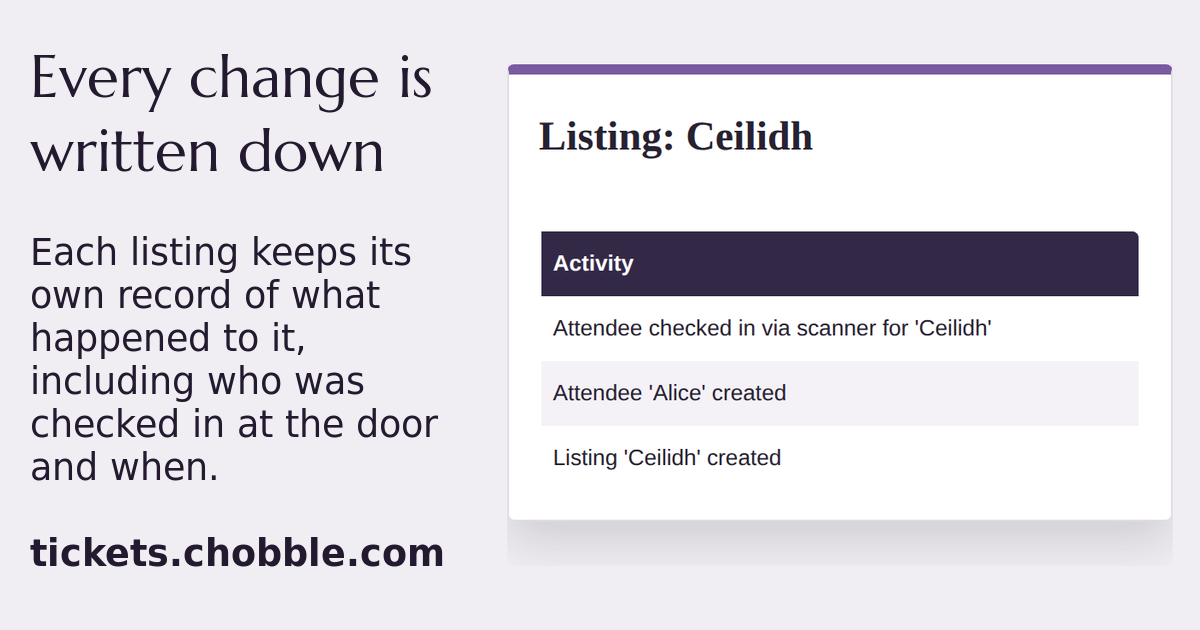
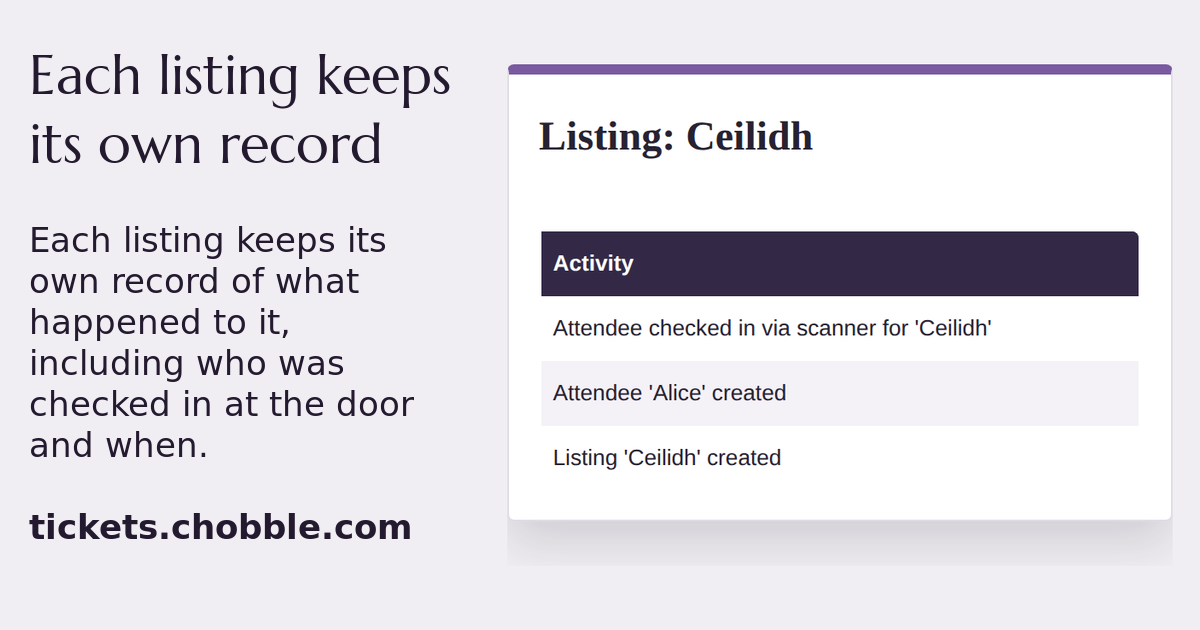
Answer three review points on the new captures
The activity heading said every change is written down, which this key's own
audited fact contradicts: the global view holds the latest 200 entries. It
now says what the picture shows, which is one listing's own record, and that
claim has a fact behind it.

Three other reworded cards had no fact covering their new wording, so each
gains one. The multi-day page said a customer was reserving days at
checkout, which is the one thing the site must never claim.

The many-kinded order capture is gone: it sat on the parent-and-child page
and showed no parent, no child selector and no required quantity.

Claude-Session: https://claude.ai/code/session_01Sy7Q7X9UJsKKyCP9FCAtqK

diff --git a/scripts/screenshots/parent-child-listings.js b/scripts/screenshots/parent-child-listings.js
@@ -1,0 +1,129 @@
+import {
+  blurActiveElement,
+  createListing,
+  openFilledListingCheckout,
+  setRequiredChildren,
+  waitForOrderTotal,
+} from "./helpers.js";
+
+export default {
+  css: `
+:root {
+  --border-radius: 7px;
+  --color-accent: #e9b44c;
+  --color-bg: #edf1e7;
+  --color-bg-secondary: #d9e2cf;
+  --color-link: #2f5d50;
+  --color-secondary: #9a4936;
+  --color-secondary-accent: #9a49361c;
+  --color-shadow: #263b3026;
+  --color-table: #2f5d50;
+  --color-text: #2a352f;
+  --color-text-secondary: #68746d;
+  --font-family: Arial, sans-serif;
+}
+
+body { background: #27483d; }
+
+main {
+  background: #fffdf5;
+  border: 1px solid #c9b77e;
+  border-radius: 10px;
+  box-shadow: 0 12px 28px var(--color-shadow);
+  margin-block: 0.6rem;
+  padding: 1.2rem;
+}
+
+main h1,
+main legend {
+  color: #244b40;
+  font-family: Georgia, "Times New Roman", serif;
+}
+
+main h1 { font-size: 1.75rem; }
+
+main button,
+main fieldset,
+main input,
+main select { border-radius: 6px; }
+
+main .child-selector {
+  background: #f5f0df;
+  border-color: #d5c38b;
+}
+
+main .order-summary-message {
+  background: #e8efe4;
+  border: 1px solid #b9c9b2;
+  border-left: 5px solid #9a4936;
+  padding: 0.75rem;
+}
+`,
+  elementSelector: "main",
+  name: "required-child-listings-checkout",
+  run: async (context) => {
+    const generalCampingId = await createListing(context, {
+      fields: ["email"],
+      name: "General Camping",
+      values: {
+        location: "Willowbank Festival Field",
+        max_attendees: "200",
+        max_quantity: "8",
+        unit_price: "12.00",
+      },
+    });
+    const quietCampingId = await createListing(context, {
+      fields: ["email"],
+      name: "Quiet Camping",
+      values: {
+        location: "Willowbank Festival Field",
+        max_attendees: "80",
+        max_quantity: "8",
+        unit_price: "18.00",
+      },
+    });
+    const festivalPassId = await createListing(context, {
+      fields: ["email"],
+      name: "Weekend Festival Pass",
+      values: {
+        location: "Willowbank Festival Field",
+        max_attendees: "500",
+        max_quantity: "8",
+        unit_price: "45.00",
+      },
+    });
+
+    await setRequiredChildren(context, festivalPassId, [
+      generalCampingId,
+      quietCampingId,
+    ]);
+
+    await openFilledListingCheckout(context, {
+      email: "alex@example.com",
+      listingId: festivalPassId,
+      name: "Alex Morgan",
+    });
+    await context.page
+      .locator(`[name="quantity_${festivalPassId}"]`)
+      .selectOption("2");
+    await context.page
+      .locator(`[name="child_qty_${festivalPassId}_${generalCampingId}"]`)
+      .selectOption("1");
+    await context.page
+      .locator(`[name="child_qty_${festivalPassId}_${quietCampingId}"]`)
+      .selectOption("1");
+    const parentWidth = await context.page
+      .locator(`[name="quantity_${festivalPassId}"]`)
+      .evaluate((select) => select.getBoundingClientRect().width);
+    const childWidth = await context.page
+      .locator(`[name="child_qty_${festivalPassId}_${generalCampingId}"]`)
+      .evaluate((select) => select.getBoundingClientRect().width);
+    if (parentWidth !== childWidth) {
+      throw new Error(
+        `Quantity controls have different widths: ${parentWidth}px and ${childWidth}px`,
+      );
+    }
+    await waitForOrderTotal(context.page, "£120");
+    await blurActiveElement(context.page);
+  },
+};

diff --git a/facts/social-images.js b/facts/social-images.js
@@ -4,6 +4,12 @@ export const AUDITED_TICKETS_COMMIT =
 export const SOCIAL_IMAGE_FACTS = {
   "activity-log": [
     {
+      fact: "A listing has its own activity view, separate from the global one, holding what happened to that listing including a door check-in.",
+      sources: [
+        "../tickets/specs/attendees/checking-people-in-at-the-door.feature:28-36",
+      ],
+    },
+    {
       fact: "Activity log rows store a time, message and optional attendee and listing links. They do not store the account that performed an action.",
       sources: [
         "../tickets/src/shared/db/activityLog.ts:49-56",
@@ -517,6 +523,12 @@ export const SOCIAL_IMAGE_FACTS = {
   ],
   "promo-codes-and-add-ons": [
     {
+      fact: "An add-on marked as sellable on its own gets its own page and its own place in the list of what is for sale, and is not described as an add-on there.",
+      sources: [
+        "../tickets/specs/bookings/add-ons-sold-on-their-own.feature:24-38",
+      ],
+    },
+    {
       fact: "Code-triggered and optional price modifiers are resolved in the same order pricing pass.",
       sources: [
         "../tickets/src/shared/price-modifier.ts:27-41",
@@ -582,6 +594,12 @@ export const SOCIAL_IMAGE_FACTS = {
   ],
   "site-customisation": [
     {
+      fact: "Pages the owner writes are offered in the order they put them in, and each keeps the web address it was given.",
+      sources: [
+        "../tickets/specs/servicing/writing-the-pages-people-read.feature:47-58",
+      ],
+    },
+    {
       fact: "Owners or editors can set the public site title and homepage text, while owners can set custom CSS loaded after the default stylesheet.",
       sources: [
         "../tickets/src/features/admin/site.ts:32-55",
@@ -592,6 +610,12 @@ export const SOCIAL_IMAGE_FACTS = {
     },
   ],
   "summer-appeal-purchase": [
+    {
+      fact: "What a pay-more listing earns is the amount the customer chose, not the amount asked, and every page showing the figure agrees.",
+      sources: [
+        "../tickets/specs/payments/paying-more-than-the-asking-price.feature:5-19",
+      ],
+    },
     {
       fact: "A pay-more listing accepts an attendee-entered amount between its configured minimum and maximum.",
       sources: [

diff --git a/scripts/social-screenshot-copy.js b/scripts/social-screenshot-copy.js
@@ -1,6 +1,6 @@
 export const SOCIAL_SCREENSHOT_COPY = {
   "activity-log": {
-    heading: "Every change is written down",
+    heading: "Each listing keeps its own record",
     body: "Each listing keeps its own record of what happened to it, including who was checked in at the door and when.",
   },
   "admin-guide": {
@@ -124,8 +124,8 @@ export const SOCIAL_SCREENSHOT_COPY = {
     body: "Combine listings into one bundle. Set each member's price and quantity, then let customers choose a package count.",
   },
   "parent-child-listings": {
-    heading: "Every part of an order is kept apart",
-    body: "An item bought inside a bundle and again on its own stays two bookings, and each one says where it came from.",
+    heading: "Require a choice with each booking",
+    body: "Ask buyers to pick a required option for each parent unit they book, such as a camping choice with a festival pass.",
   },
   "payment-provider-choice": {
     heading: "Choose a payment provider",

diff --git a/pages/features/parent-child-listings.md b/pages/features/parent-child-listings.md
@@ -3,7 +3,6 @@ title: Parent/Child Listings - Chobble Tickets
 meta_title: Required Child Listings - Chobble Tickets
 meta_description: A parent listing can require buyers to choose child listings - required extras, options, or bundled items - before they can check out.
 permalink: /features/parent-child-listings/
-ticket_evidence_capture: one-order-of-every-kind
 eleventyNavigation:
   key: Parent/Child Listings
   parent: Selling Tickets
@@ -42,8 +41,8 @@ blocks:
       duration are disabled, so a buyer cannot pick an incompatible option.
 
     figure_src: /images/screenshots/required-child-listings-checkout.png
-    figure_alt: A screenshot of a Tent listing's attendee list, showing the same buyer twice, once for two places and once for one
-    figure_caption: 'A thing ordered inside a bundle and again on its own is two bookings, not one of two. <small><a href="https://github.com/chobbledotcom/tickets/blob/main/specs/bookings/ordering-several-things-at-once.feature">(src)</a></small>'
+    figure_alt: A festival pass checkout with two passes and one place each in general and quiet camping, totalling £120
+    figure_caption: The child quantities must add up to the number of parent tickets before checkout can continue.
   - type: markdown
     content: |
       ## Children are only seen through the parent

diff --git a/pages/features/multi-day-hire.md b/pages/features/multi-day-hire.md
@@ -25,7 +25,7 @@ blocks:
 
       The length is on the listing's own page, so you can read it without
       opening the edit form, and the booking page tells a customer how many
-      days they are reserving before they pick a first day.
+      days the booking will cover before they pick a first day.
     figure_src: /images/screenshots/multi-day-hire.png
     figure_alt: A screenshot of a Lodge listing's page, showing it is booked daily, on any day of the week, with a booking duration of 3 days
     figure_caption: 'A listing booked by the day says how long each booking lasts on its own page, without opening the edit form. <small><a href="https://github.com/chobbledotcom/tickets/blob/main/specs/bookings/changing-how-long-a-stay-lasts.feature">(src)</a></small>'

diff --git a/pages/gallery.md b/pages/gallery.md
@@ -35,7 +35,7 @@ blocks:
       - image: /images/screenshots/the-tempest-group-checkout__facebook.png
         caption: An attendee list holding a booking made from a group page, with the answer the customer picked.
       - image: /images/screenshots/required-child-listings-checkout__facebook.png
-        caption: One buyer's order, where the same item bought two ways is kept as two bookings.
+        caption: A festival pass that requires each camper to pick a camping option.
       - image: /images/screenshots/industry-childrens-entertainer-booking__facebook.png
         caption: A children's party package that requires one entertainer choice.
       - image: /images/screenshots/promo-codes-and-add-ons-checkout__facebook.png

diff --git a/IMAGE-SCENARIOS.md b/IMAGE-SCENARIOS.md
@@ -247,7 +247,6 @@ These pages are rendered but excluded from the sitemap and main editorial total.
 
 - [x] `add-on-in-the-list`
 - [x] `checked-in-on-the-day`
-- [x] `one-order-of-every-kind`
 - [x] `paid-more-than-asked`
 - [x] `site-pages-in-order`
 - [x] `stay-length-on-the-page`
